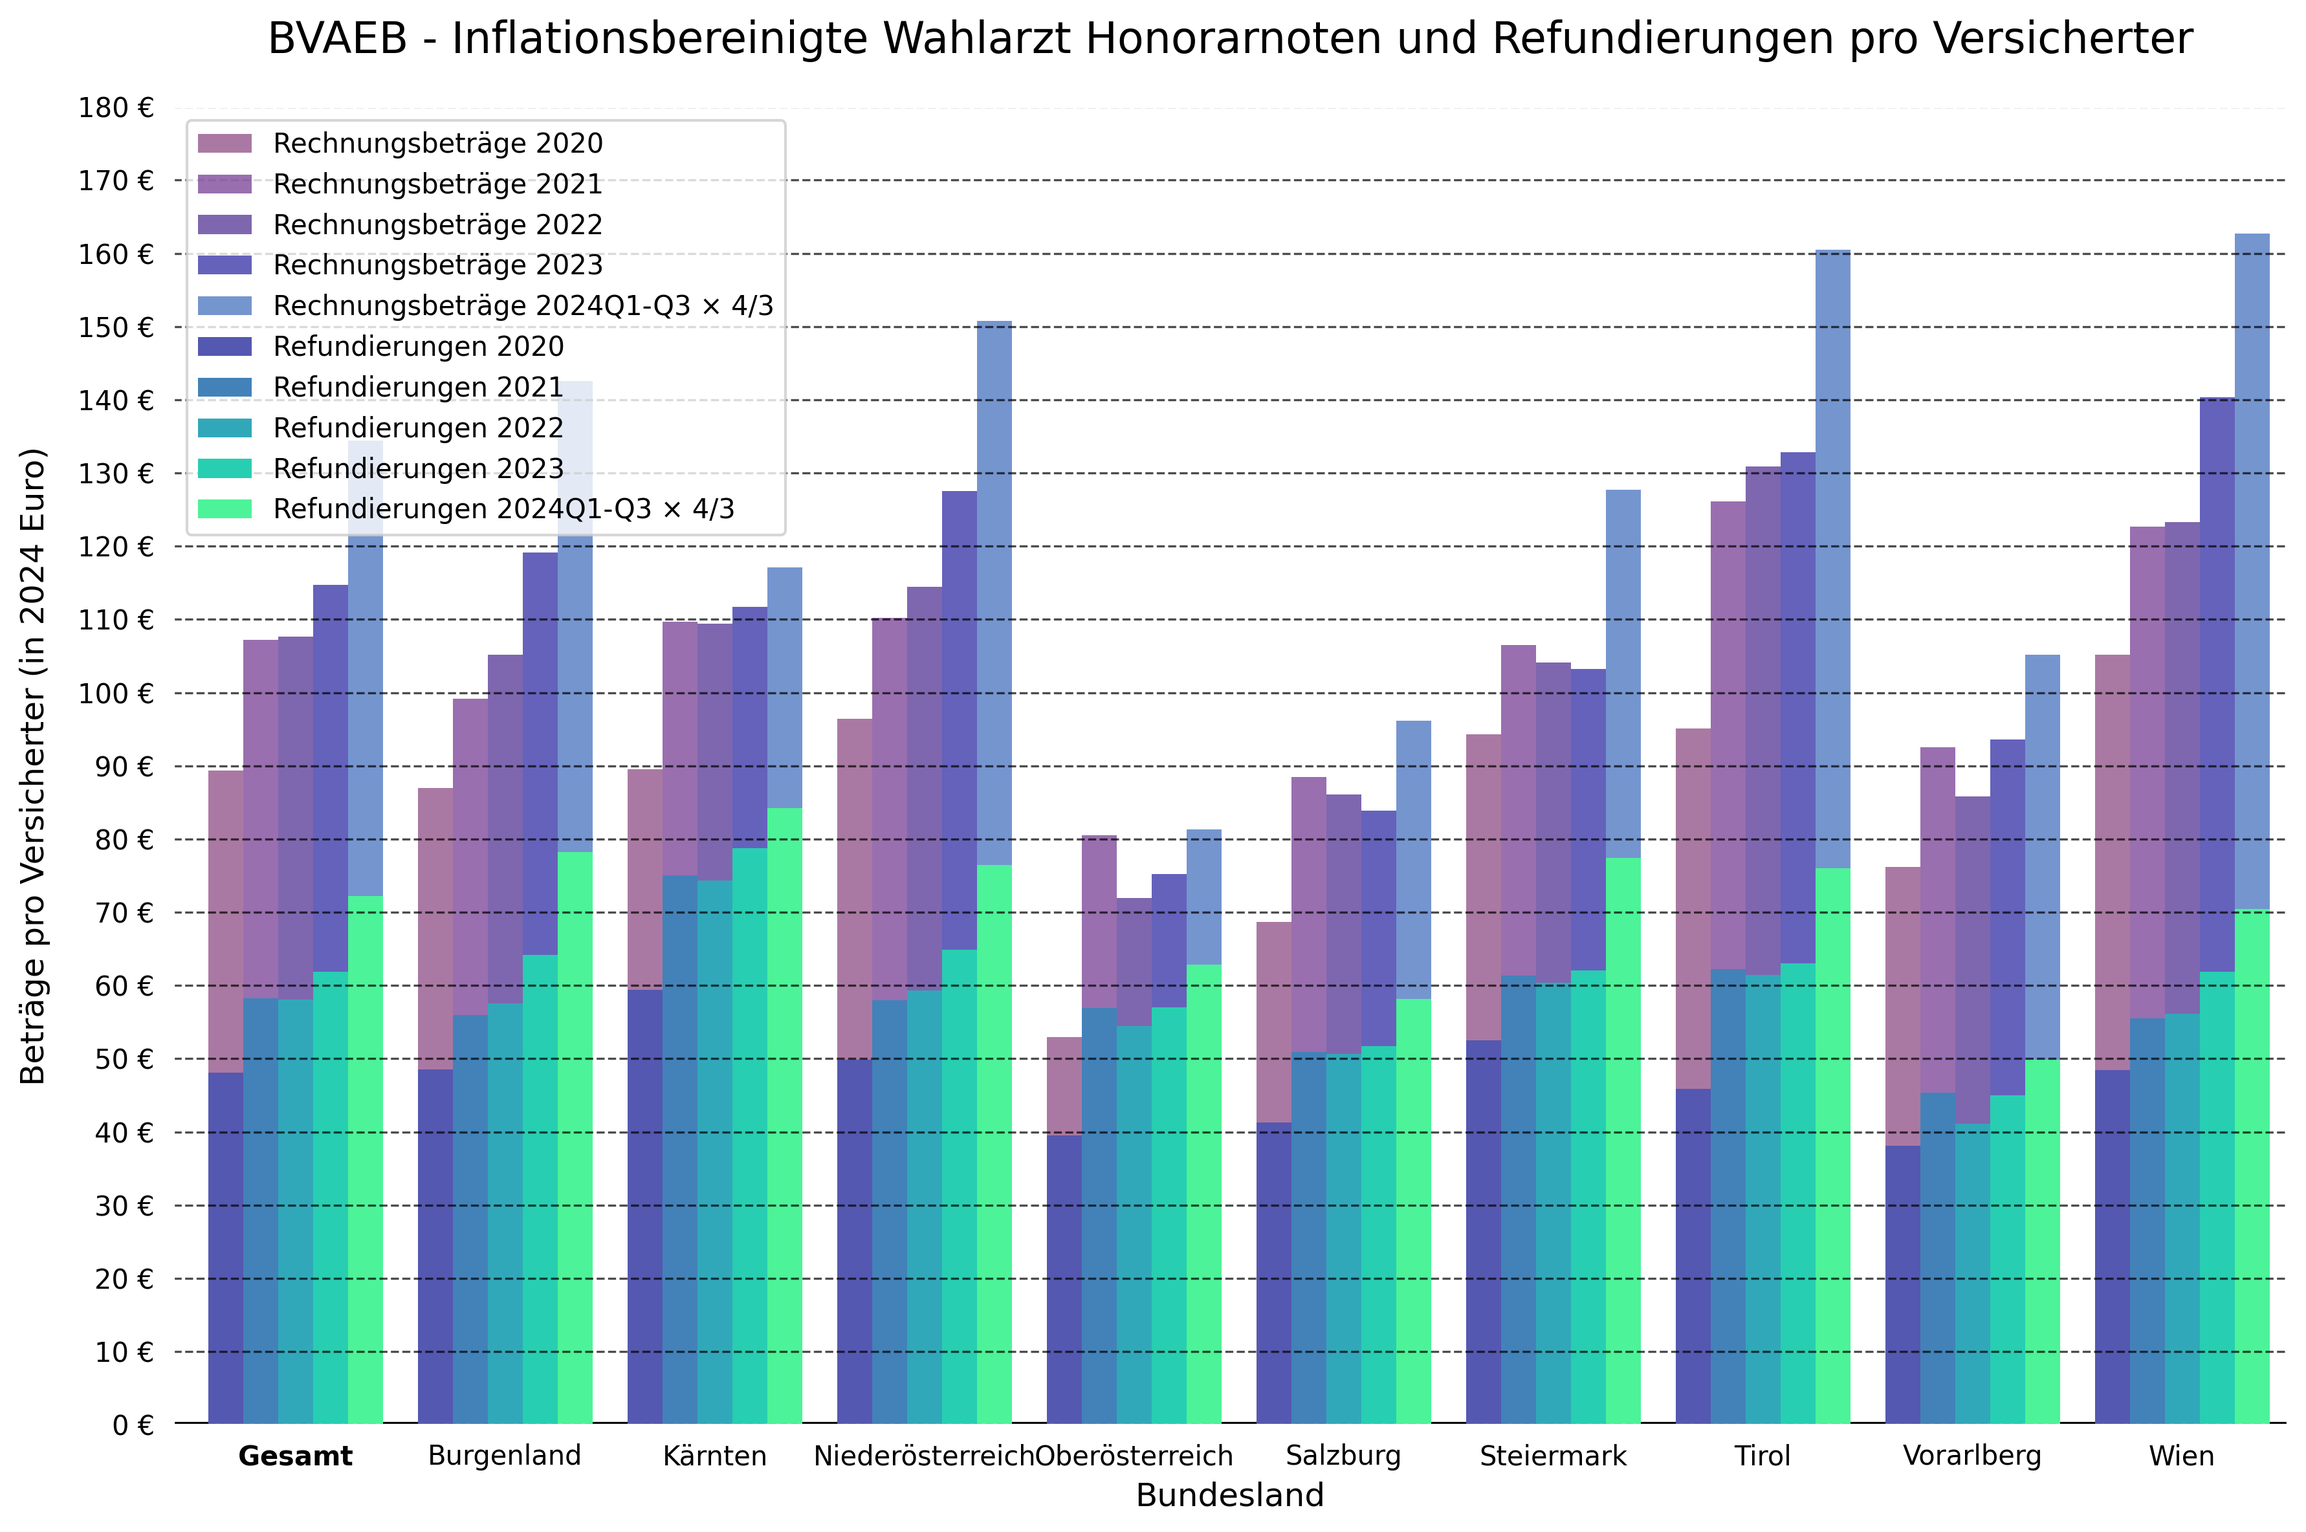
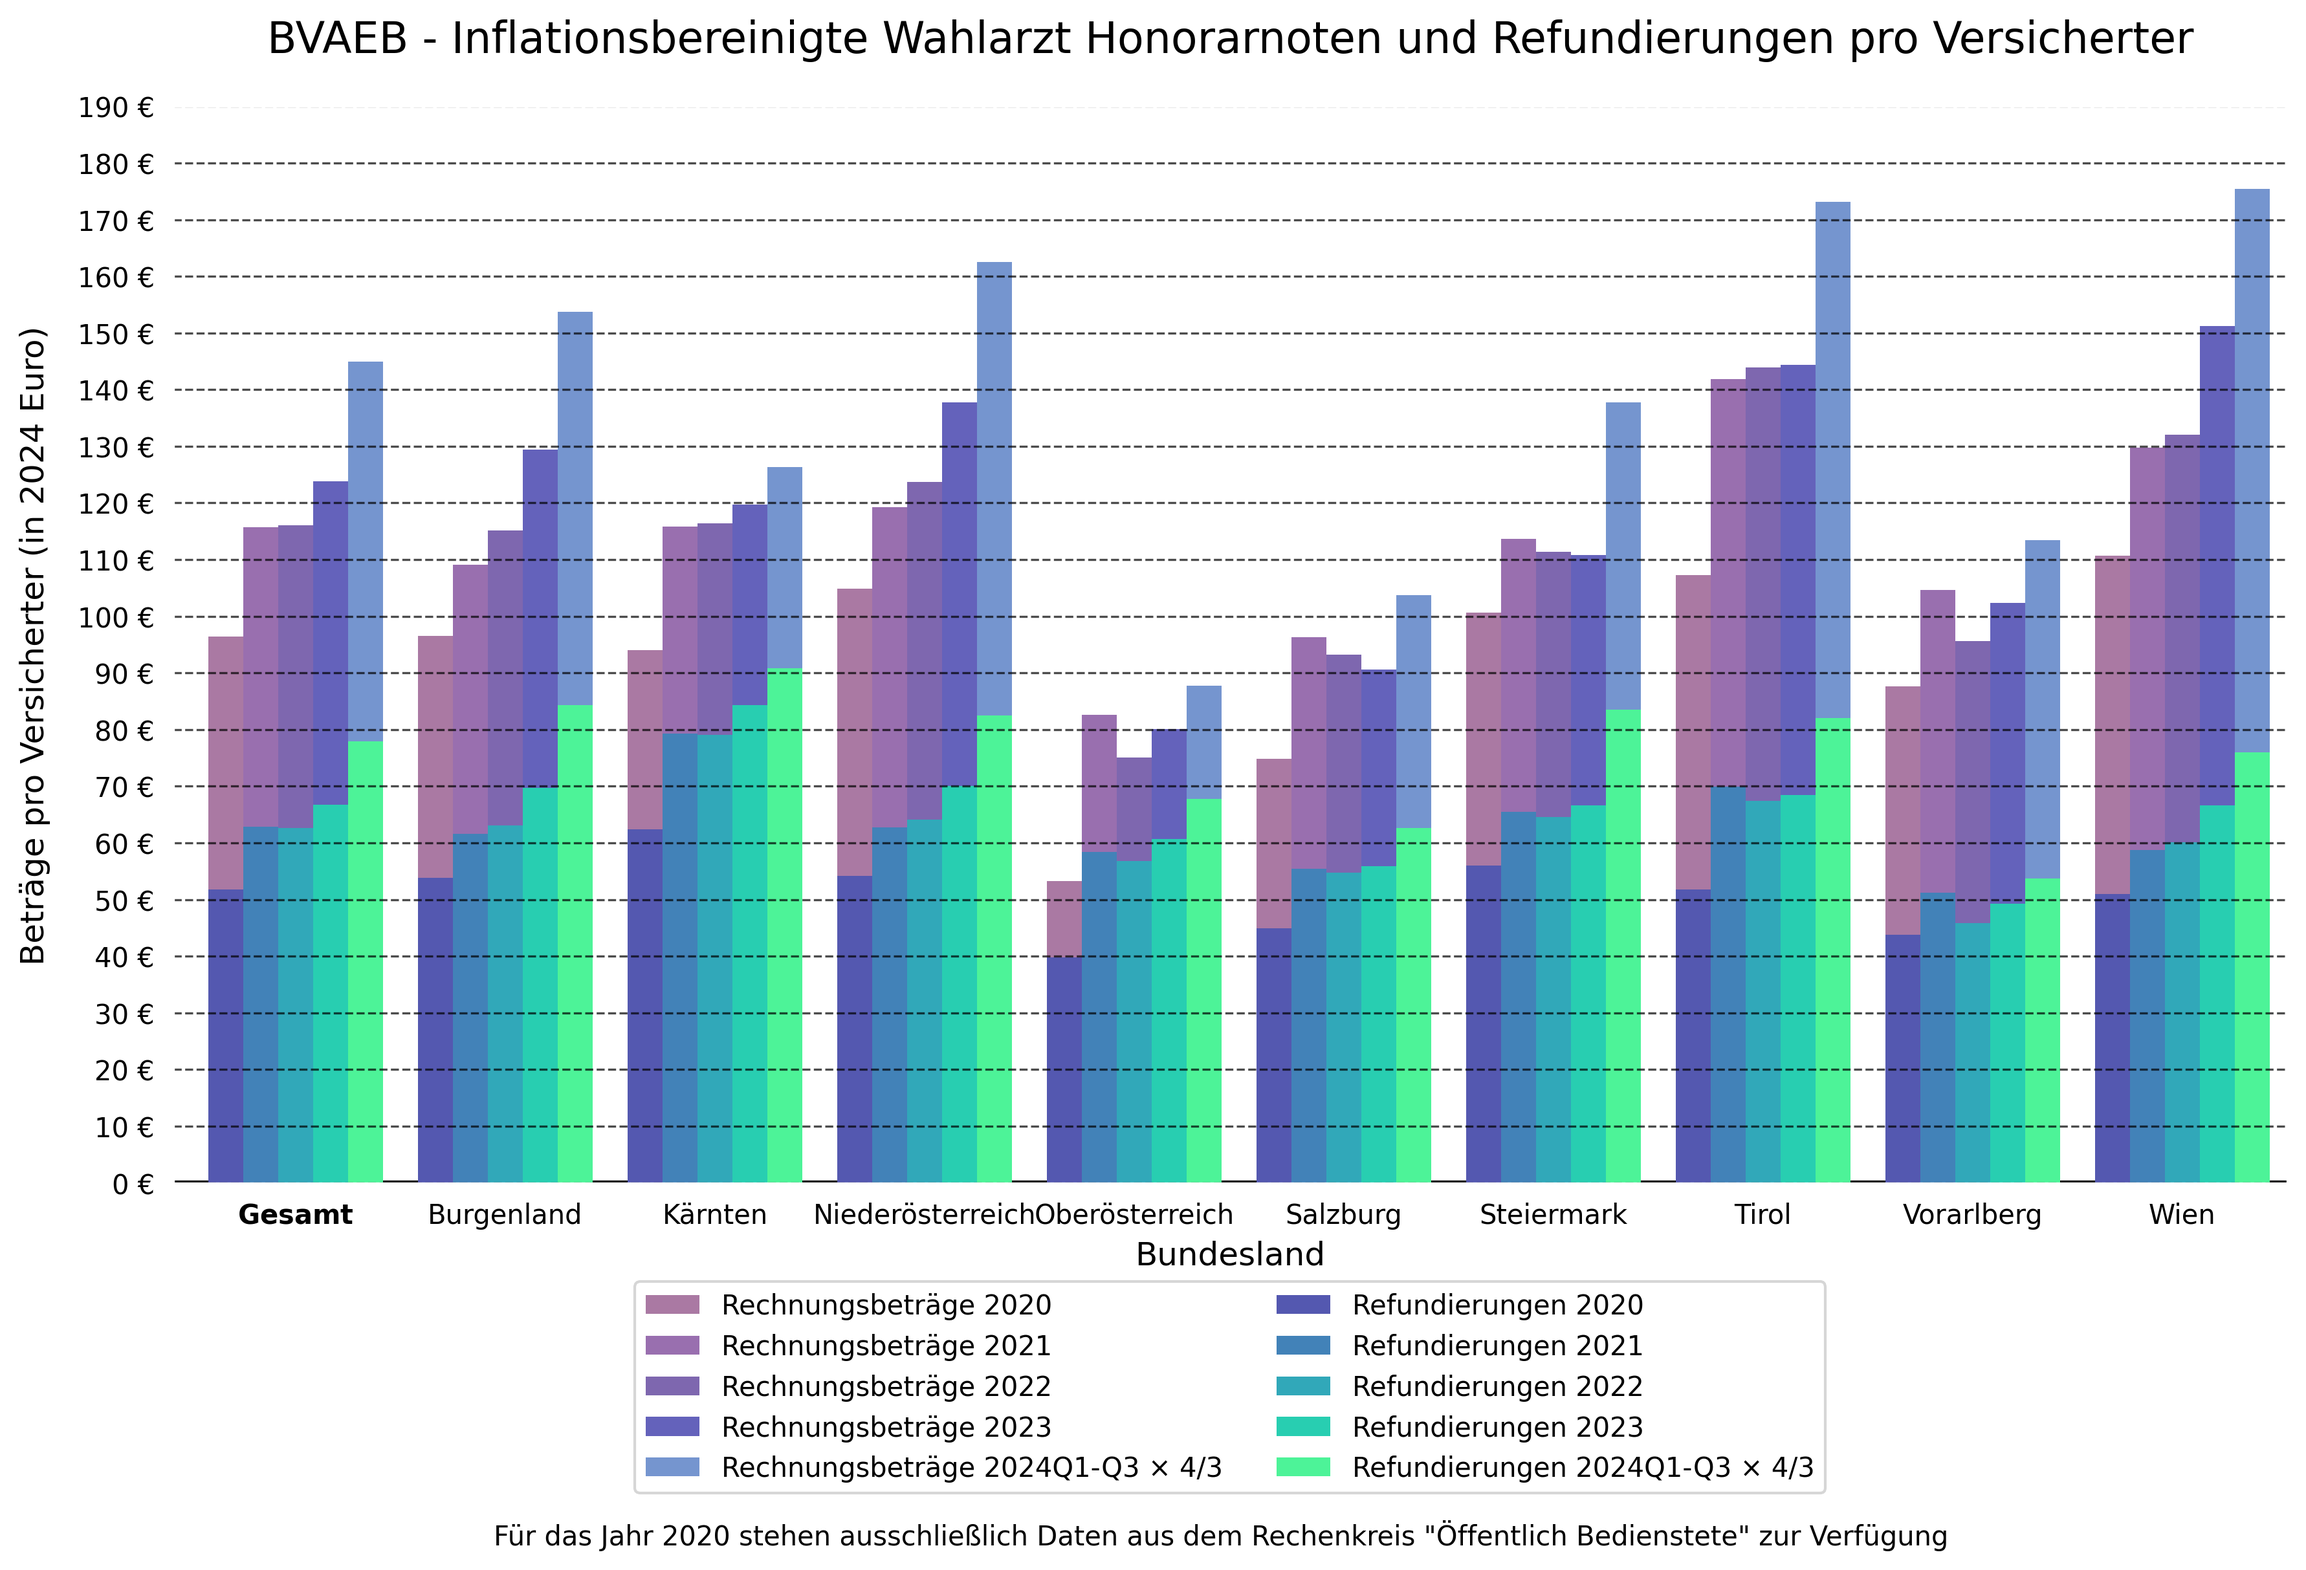
improved the bvaeb betraege plot

diff --git a/visualize/plot_bvaeb_betraege_weighted.py b/visualize/plot_bvaeb_betraege_weighted.py
@@ -3,9 +3,11 @@ import matplotlib.pyplot as plt
 import numpy as np
 import os
 import colorsys
+import glob
 
 # Global settings
 OUTPUT_DIR = "../figures/BVAEB/Betraege"  # Output directory for the plot
+SV_DATA_DIR = "../data/extras/SV_Jahresberichte"  # Directory containing SV Excel files
 
 prettify_LST = {
     "Wien": "Wien",
@@ -20,6 +22,52 @@ prettify_LST = {
     "Gesamt": "Gesamt",
 }
 
+def read_insured_population_from_excel():
+    """
+    Read insured population data from Excel files in SV_Veroeffentlichungen directory.
+    Returns a dictionary with years as keys and population data as values.
+    """
+    population_data = {}
+    
+    # Get all Excel files
+    excel_files = glob.glob(os.path.join(SV_DATA_DIR, "Jahresergebnisse_*.xlsx"))
+    # Filter out files from years 2018 and 2019
+    excel_files = [file for file in excel_files 
+                  if not os.path.basename(file).endswith(('_18.xlsx', '_19.xlsx'))]
+    
+    for file_path in excel_files:
+        try:
+            # Extract year from filename
+            year = f"20{file_path.split('_')[-1].split('.')[0]}"
+            
+            # Read the Excel file
+            df = pd.read_excel(file_path, sheet_name="Tab4", header=None)
+            
+            # Get the row with insured population (B12 to K12)
+            row_data = df.iloc[11, 1:11].values
+            
+            # Create dictionary for this year
+            year_data = {
+                "Gesamt": int(row_data[0]),
+                "Wien": int(row_data[1]),
+                "NÖ": int(row_data[2]),
+                "Bgld": int(row_data[3]),
+                "OÖ": int(row_data[4]),
+                "Stmk": int(row_data[5]),
+                "Ktn": int(row_data[6]),
+                "Sbg": int(row_data[7]),
+                "Tirol": int(row_data[8]),
+                "Vbg": int(row_data[9])
+            }
+            
+            population_data[year] = year_data
+            
+        except Exception as e:
+            print(f"Error reading {file_path}: {str(e)}")
+            continue
+    
+    return population_data
+
 # VPI data (from /data/extras/VPI/VPI...ods). Average per time period
 VPI_DATA = {
     "2019": 106.7,
@@ -32,75 +80,11 @@ VPI_DATA = {
     "2025": 136.8,
 }
 
-# Insured population data (from /data/extras/Handbuch/Tabellen_Statistisches_Handbuch_2024/Kapitel 2_24.xlsx)
-# Historical data 2019-2023 from Tabelle 2.02
-# Future values calculated with lambda functions
-INSURED_POPULATION = {
-    "2020": {
-        "Wien": 174141,
-        "NÖ": 295949,
-        "Bgld": 49829,
-        "OÖ": 88499,
-        "Stmk": 198221,
-        "Ktn": 89240,
-        "Sbg": 87638,
-        "Tirol": 126532,
-        "Vbg": 54439,
-        "Gesamt": 1171842,
-    },
-    "2021": {
-        "Wien": 174141,
-        "NÖ": 295949,
-        "Bgld": 49829,
-        "OÖ": 88499,
-        "Stmk": 198221,
-        "Ktn": 89240,
-        "Sbg": 87638,
-        "Tirol": 126532,
-        "Vbg": 54439,
-        "Gesamt": 1171842,
-    },
-    "2022": {
-        "Wien": 174141,
-        "NÖ": 295949,
-        "Bgld": 49829,
-        "OÖ": 88499,
-        "Stmk": 198221,
-        "Ktn": 89240,
-        "Sbg": 87638,
-        "Tirol": 126532,
-        "Vbg": 54439,
-        "Gesamt": 1171842,
-    },
-    "2023": {
-        "Wien": 174141,
-        "NÖ": 295949,
-        "Bgld": 49829,
-        "OÖ": 88499,
-        "Stmk": 198221,
-        "Ktn": 89240,
-        "Sbg": 87638,
-        "Tirol": 126532,
-        "Vbg": 54439,
-        "Gesamt": 1171842,
-    },
-    "2024": {
-        "Wien": 174141,
-        "NÖ": 295949,
-        "Bgld": 49829,
-        "OÖ": 88499,
-        "Stmk": 198221,
-        "Ktn": 89240,
-        "Sbg": 87638,
-        "Tirol": 126532,
-        "Vbg": 54439,
-        "Gesamt": 1171842,
-    },
-    "2024Q1-Q3": lambda: {k: int(v) for k, v in INSURED_POPULATION["2024"].items()},
-    "2025": lambda: {
-        k: int(v * 1.008) for k, v in INSURED_POPULATION["2024"]().items()
-    },
-}
+# Read insured population data from Excel files
+INSURED_POPULATION = read_insured_population_from_excel()
+
+# Add 2024Q1-Q3 data as a lambda function
+INSURED_POPULATION["2024Q1-Q3"] = lambda: {k: int(v) for k, v in INSURED_POPULATION["2024"].items()}
 
 def get_population_for_year(year):
     """Get the population data for a specific year"""
@@ -322,7 +306,11 @@ def create_plot(input_file, dark_mode=True, is_updated=False, plot_type="betraeg
     handles, labels = ax.get_legend_handles_labels()
     # Remove duplicate labels and sort lexicographically
     by_label = dict(sorted(zip(labels, handles)))
-    ax.legend(by_label.values(), by_label.keys(), loc="upper left")
+    ax.legend(by_label.values(), by_label.keys(), loc="center", bbox_to_anchor=(0.5, -0.19), ncol=2)
+
+    # Add note about 2020 data
+    note_text = "Für das Jahr 2020 stehen ausschließlich Daten aus dem Rechenkreis \"Öffentlich Bedienstete\" zur Verfügung"
+    plt.figtext(0.53, -0.0, note_text, ha='center', color=text_color, fontsize=10)
 
     # Set the axis limits
     ax.set_xlim(-0.5, len(states) - 0.2 + (len(states) - 1) * group_spacing)
